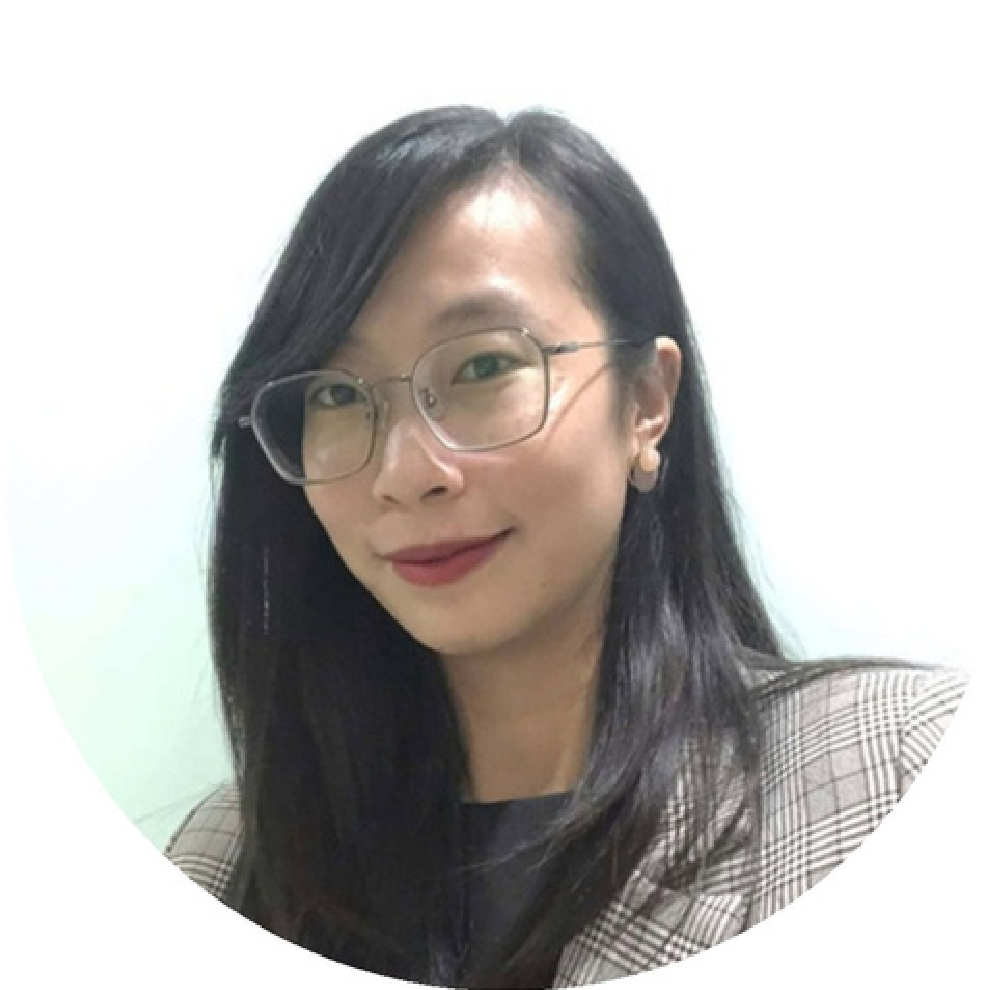
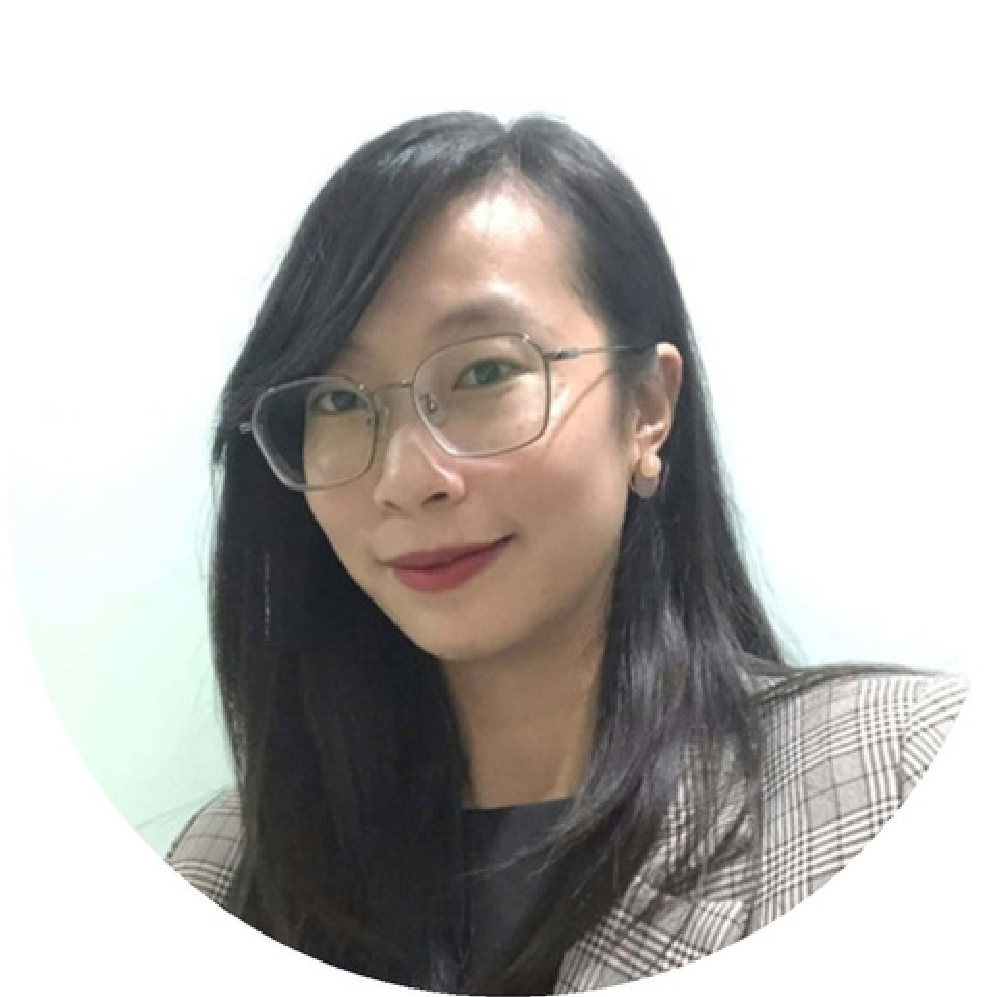
feat: minor changes in images and texts

diff --git a/apps/web/src/app/page.tsx b/apps/web/src/app/page.tsx
@@ -16,7 +16,7 @@ import mentor3 from "@/assets/mentor-3.png";
 import mentor4 from "@/assets/mentor-4.png";
 
 const registrationLink =
-  "mailto:masc26.info@gmail.com?subject=MASC%202026%20Registration";
+  "/register";
 
 const rounds = [
   {
@@ -71,31 +71,31 @@ const mentors: Array<{
       name: "Ms. Ngọc Nguyễn",
       image: mentor1,
       description: [
-        "Head of Brand Marketing Department tại Canifa",
-        "Dẫn dắt thành công chiến dịch “Say It Now” và “Yêu Nước Từ Trong Nôi” tại Canifa với hơn 15 năm kinh nghiệm",
-        "Giám khảo cuộc thi Z Marketer Mùa 5 và Hackathon mùa 6",
+        "Head of Brand Marketing Department at Canifa",
+        "Successfully led Canifa’s “Say It Now” and “Yêu Nước Từ Trong Nôi” campaigns, backed by over 15 years of experience",
+        "Judge for Z Marketer Season 5 and Hackathon Season 6",
       ],
     },
     {
       name: "Mr. Duy Nguyễn",
       image: mentor2,
       description: [
-        "Brand Business Development Manager tại Nestlé",
+        "Brand Business Development Manager at Nestlé",
         "Former Senior Brand Manager",
       ],
     },
     {
       name: "Mr. Panos Dimitropoulos",
       image: mentor3,
-      description: ["Founder Two Words Agency", "Ex-Senior Director tại Kantar"],
+      description: ["Founder of Two Words Agency", "Former Senior Director at Kantar"],
     },
     {
       name: "Ms. Trang Hoàng",
       image: mentor4,
       description: [
-        "Co-Founder InnoSight Academy",
-        "Co-Founder Podcast Insight2Innovation",
-        "Mentor tại Unilever & Nestlé Vietnam’s Management Trainee",
+        "Co-Founder of InnoSight Academy",
+        "Co-Founder of the Insight2Innovation Podcast",
+        "Mentor for the Unilever and Nestlé Vietnam Management Trainee programs",
       ],
     },
   ];
@@ -173,12 +173,12 @@ export default function Home() {
           {
             yPercent: -8,
             scale: 1.13,
-            filter: "brightness(0.58) saturate(0.82)",
+            filter: "brightness(0.48) saturate(0.82)",
           },
           {
             yPercent: 9,
             scale: 1.04,
-            filter: "brightness(0.36) saturate(0.65)",
+            filter: "brightness(0.32) saturate(0.65)",
             ease: "none",
             scrollTrigger: {
               trigger: ".why",
@@ -543,12 +543,12 @@ export default function Home() {
             </div>
             <div className="criteria-grid">
               <article className="criteria-card reveal">
-                <span>Vòng 1</span>
+                <span>Round 1</span>
                 <h3>Specialist clarity</h3>
                 <p>Commit to one track and sharpen the work through direct mentor feedback.</p>
               </article>
               <article className="criteria-card reveal">
-                <span>Vòng 2</span>
+                <span>Round 2</span>
                 <h3>Creative responsibility</h3>
                 <p>Balance breakthrough thinking with feasibility and positive community impact.</p>
               </article>
